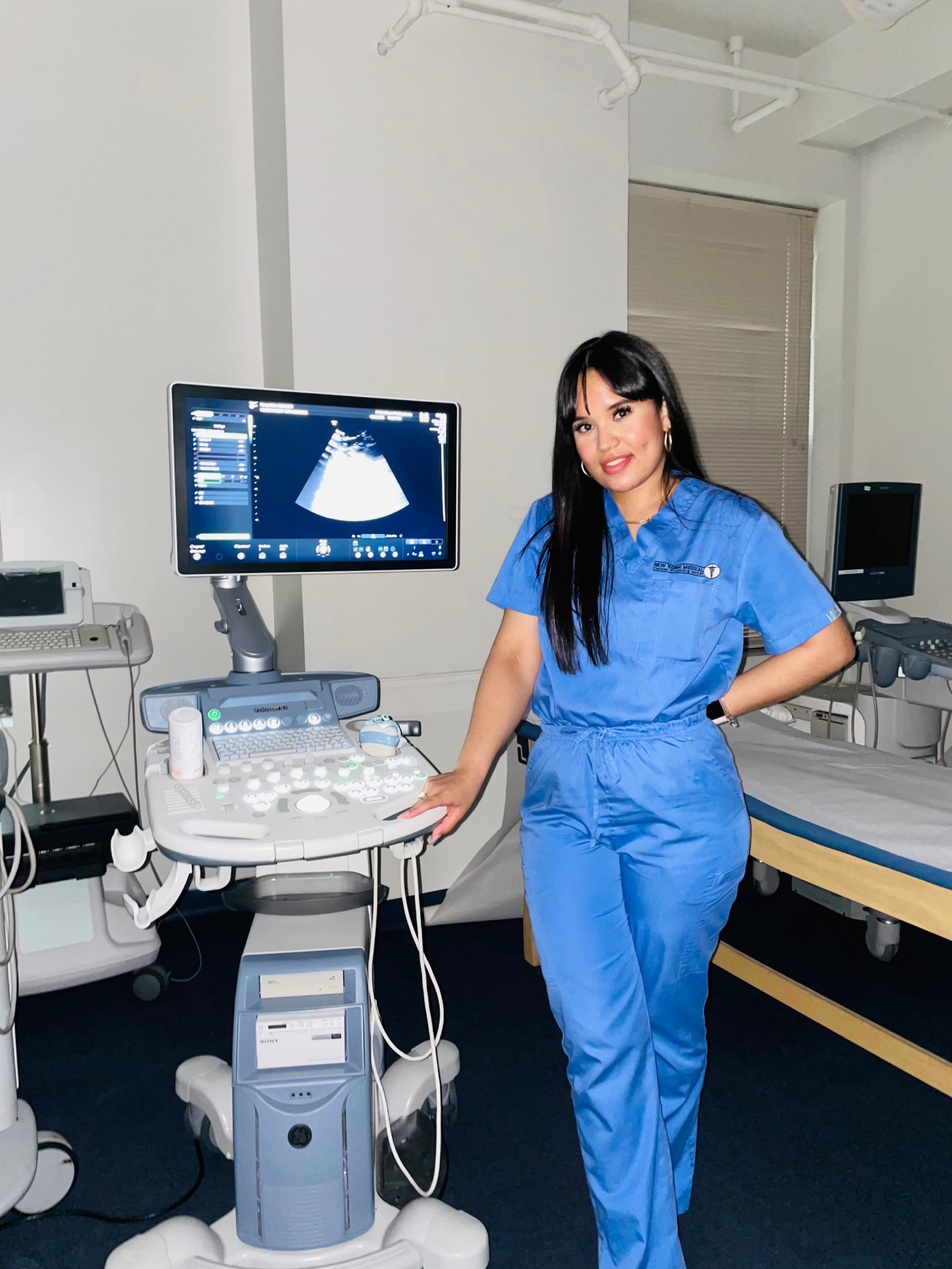
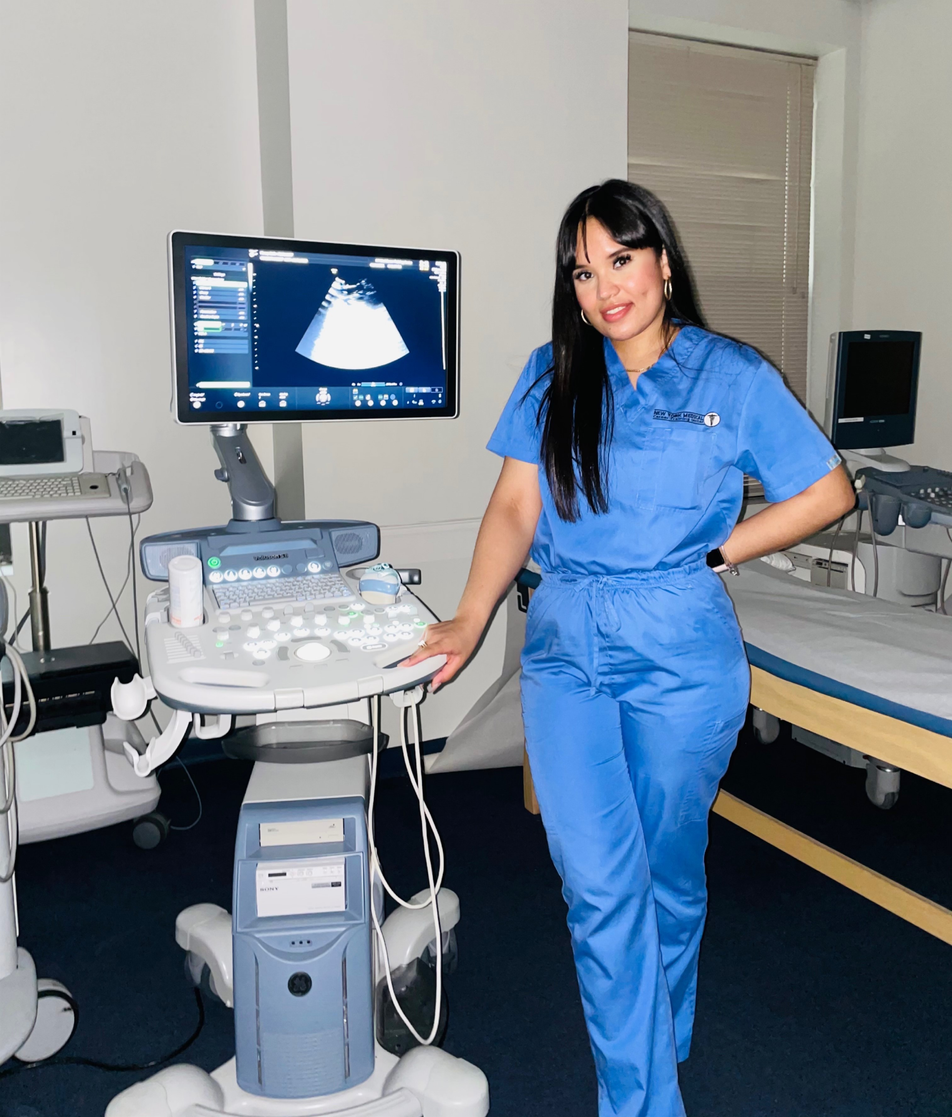
cropped image to exclude pipes

diff --git a/Website Project/css/BiggerCard.css b/Website Project/css/BiggerCard.css
@@ -5,5 +5,5 @@
 }
 
 .larger-text{
-    font-size: 1.30rem;
+    font-size: 1.40rem;
 }
